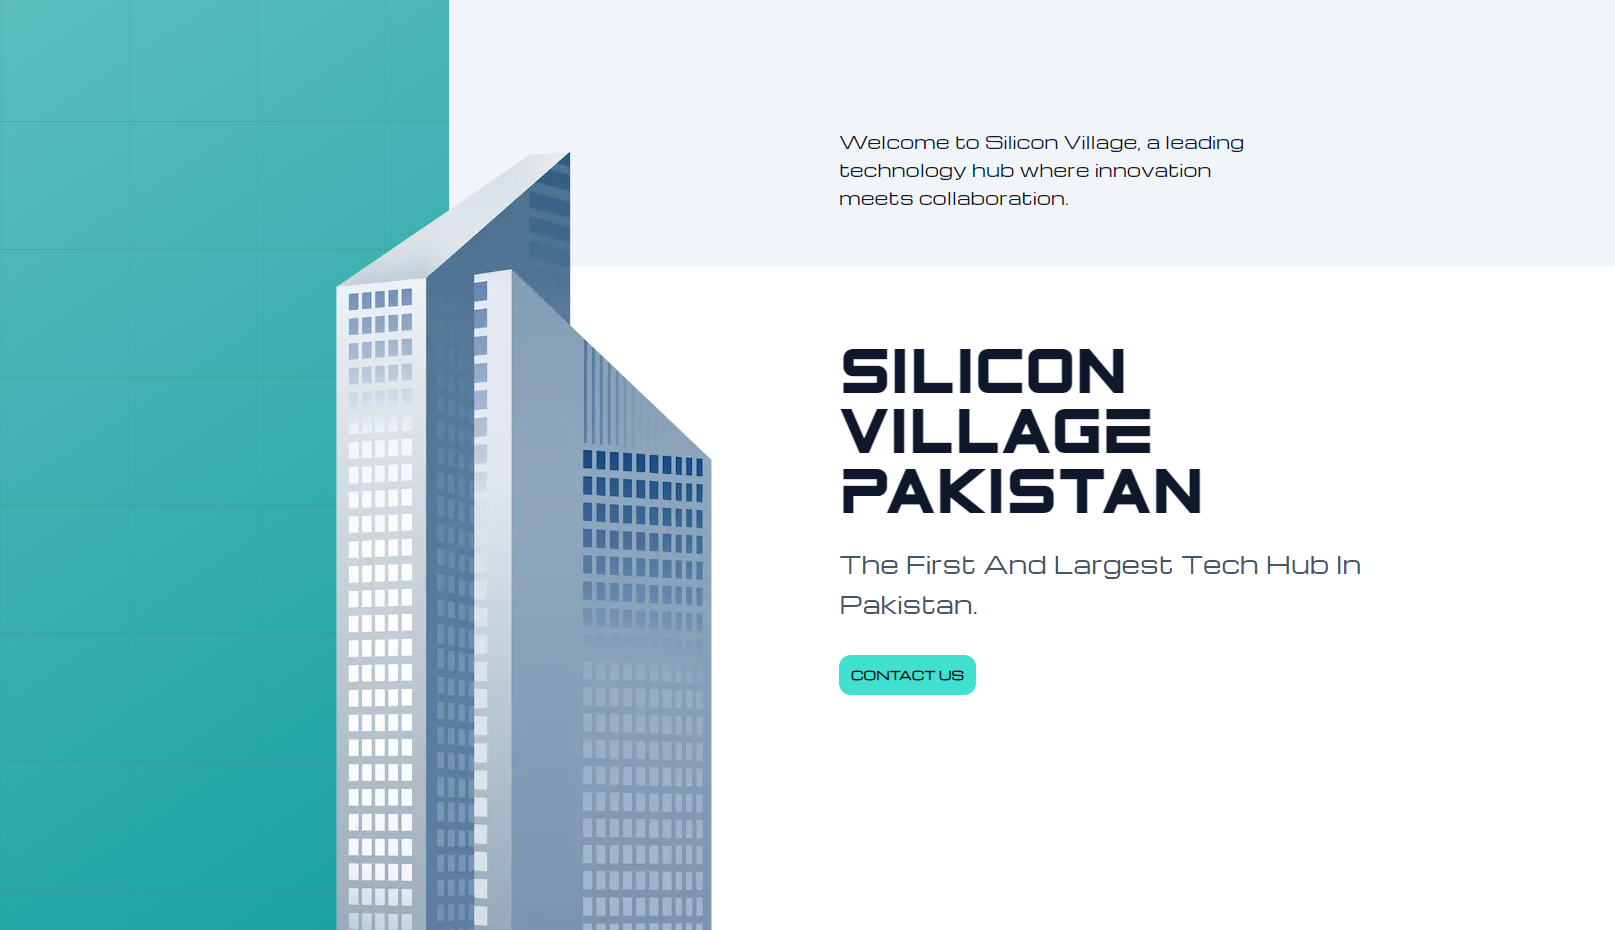
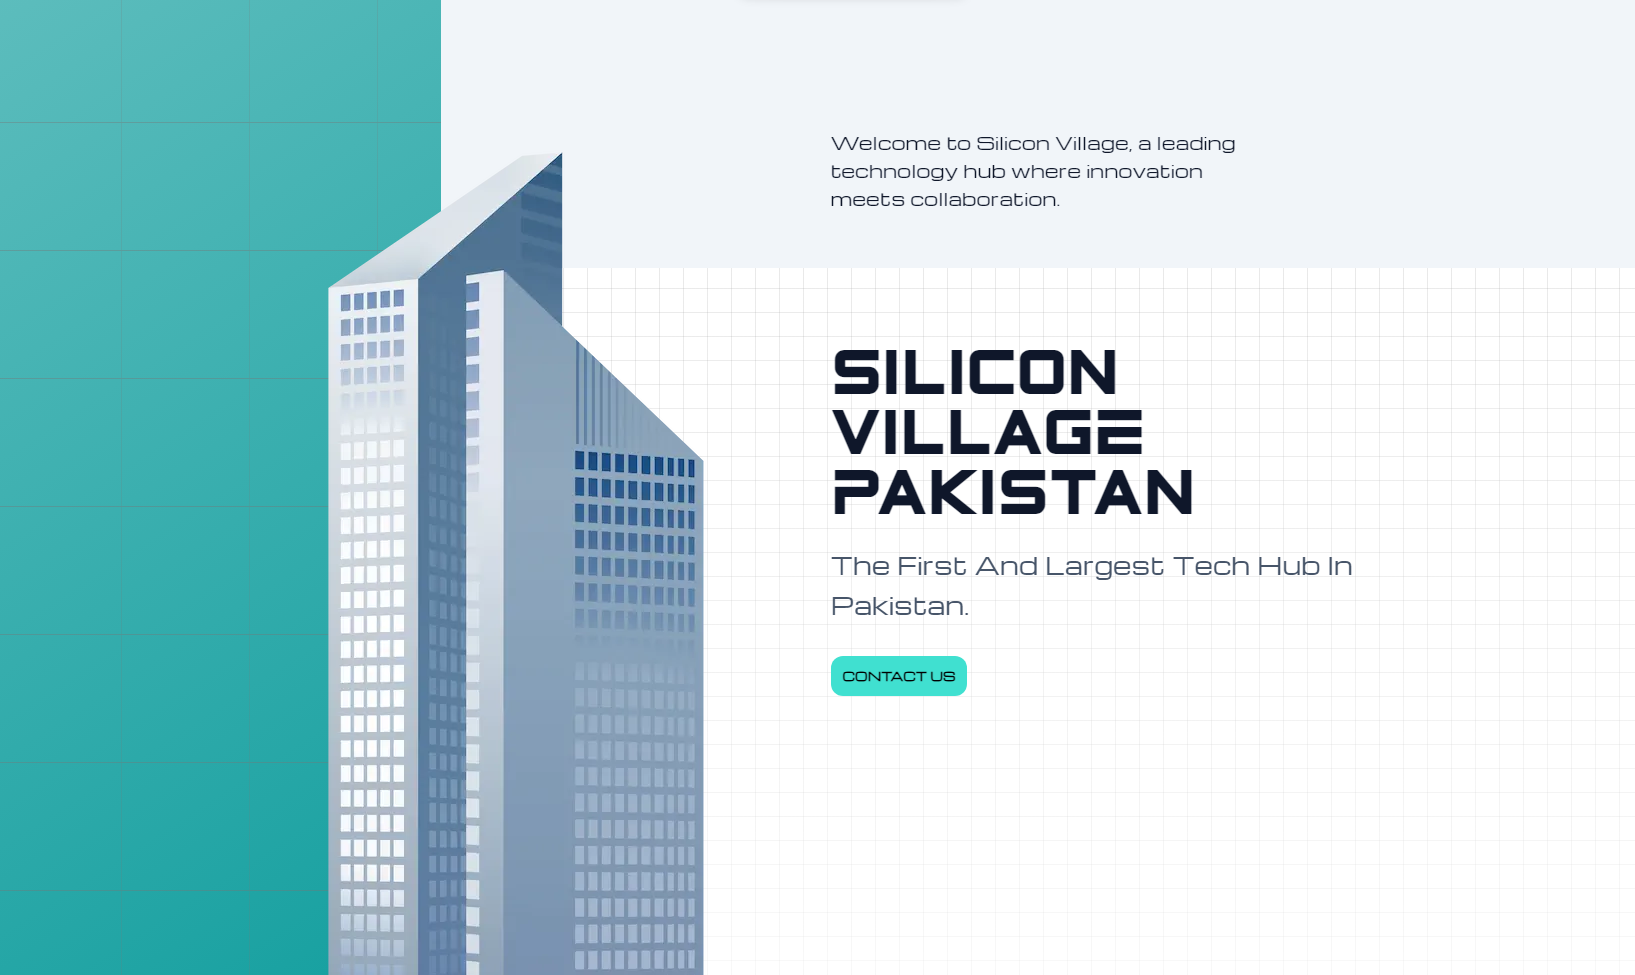
make navbar rounded & update project display

Changed region(s): [[0.1858, 0.0, 0.4644, 1.0], [0.4954, 0.343, 0.8359, 0.7484], [0.4954, 0.1247, 0.774, 0.2183]]

diff --git a/src/components/Navbar.tsx b/src/components/Navbar.tsx
@@ -9,7 +9,7 @@ import { FaLinkedinIn, FaGithub } from "react-icons/fa";
 export const Navbar = () => {
   const [nav, setNav] = useState(false);
   const [shadow, setShadow] = useState(false);
-  
+
   const handleNav = () => {
     setNav(!nav);
   };
@@ -22,8 +22,7 @@ export const Navbar = () => {
         setShadow(false);
       }
     };
-    if (window !== undefined)
-    {
+    if (window !== undefined) {
       window.addEventListener("scroll", handleShadow);
     }
 
@@ -36,7 +35,7 @@ export const Navbar = () => {
     <nav
       className={
         shadow
-          ? "fixed top-0 w-full h-24 shadow-xl z-[100] ease-in-out duration-300 bg-white/50 backdrop-filter backdrop-blur-3xl"
+          ? "fixed top-0 w-full h-24 shadow-xl z-[100] ease-in-out duration-300 bg-white/50 backdrop-filter backdrop-blur-3xl rounded-[3rem] sm:rounded-b-[3rem] "
           : "fixed top-0 w-full h-24 z-[100]"
       }
     >
